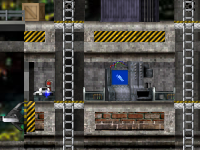
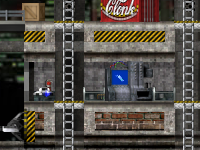
* Container angepasst.

diff --git a/ModernCombatFINALTRY.c4f/CMC_BridgeOnslaught.c4s/Script.c b/ModernCombatFINALTRY.c4f/CMC_BridgeOnslaught.c4s/Script.c
@@ -110,7 +110,7 @@ func CreateInterior()
   //Container
   CreateObject(CON1, 25, 440, -1)->SetPerspective(2);
   CreateObject(CON1, 75, 440, -1);
-  CreateObject(CON1, 120, 640, -1);
+  CreateObject(CON1, 120, 640, -1)->SetPerspective();
   CreateObject(CON1, 250, 640, -1)->SetPerspective(3);
   CreateObject(CON1, 265, 614, -1)->SetPerspective(2);
 
@@ -120,9 +120,9 @@ func CreateInterior()
   CreateObject(CON1, 2200, 440, -1)->SetPerspective(2);
   CreateObject(CON1, 2200, 640, -1);
 
-  CreateObject(CON1, 2470, 640, -1);
+  CreateObject(CON1, 2475, 642, -1)->SetPerspective();
   CreateObject(CON1, 2500, 614, -1)->SetPerspective(2);
-  CreateObject(CON1, 2530, 640, -1);
+  CreateObject(CON1, 2530, 642, -1);
   CreateObject(CON1, 2680, 440, -1)->SetPerspective(3);
 
   //Kisten

diff --git a/ModernCombatFINALTRY.c4f/CMC_Base1337.c4s/Script.c b/ModernCombatFINALTRY.c4f/CMC_Base1337.c4s/Script.c
@@ -187,11 +187,11 @@ func CreateInterior()
   CreateObject(CON1, 3170, 1200, -1)->SetPerspective(2);
   CreateObject(CON1, 3200, 1201, -1)->SetPerspective(2);
   CreateObject(CON1, 3350, 1040, -1)->SetPerspective(2);
-  CreateObject(CON1, 3390, 1041, -1);
-  CreateObject(CON1, 3560, 851, -1);
+  CreateObject(CON1, 3390, 1041, -1)->SetPerspective();
+  CreateObject(CON1, 3557, 851, -1)->SetPerspective();
   CreateObject(CON1, 3751, 861, -1)->SetPerspective(2);
   CreateObject(CON1, 3795, 861, -1);
-  CreateObject(CON1, 3850, 861, -1);
+  CreateObject(CON1, 3850, 861, -1)->SetPerspective();
   CreateObject(CON1, 3990, 861, -1);
 
   //Rohre

diff --git a/ModernCombatFINALTRY.c4f/CMC_EndlessOutpost.c4s/Script.c b/ModernCombatFINALTRY.c4f/CMC_EndlessOutpost.c4s/Script.c
@@ -238,8 +238,10 @@ func CreateInterior()
   CreateObject(CON1, 1680, 520, -1);
   CreateObject(CON1, 2170, 110, -1);
   CreateObject(CON1, 2670, 110, -1);
-  CreateObject(CON1, 2690, 83, -1);
-  CreateObject(CON1, 2720, 410, -1);
+  CreateObject(CON1, 2690, 83, -1)->SetPerspective();
+  CreateObject(CON1, 2720, 410, -1)->SetPerspective();
+  CreateObject(CON1, 2730, 382, -1);
+  CreateObject(CON1, 2830, 410, -1);
 
   //Glasscheiben
   CreateObject(_WIN, 802, 240, -1);
